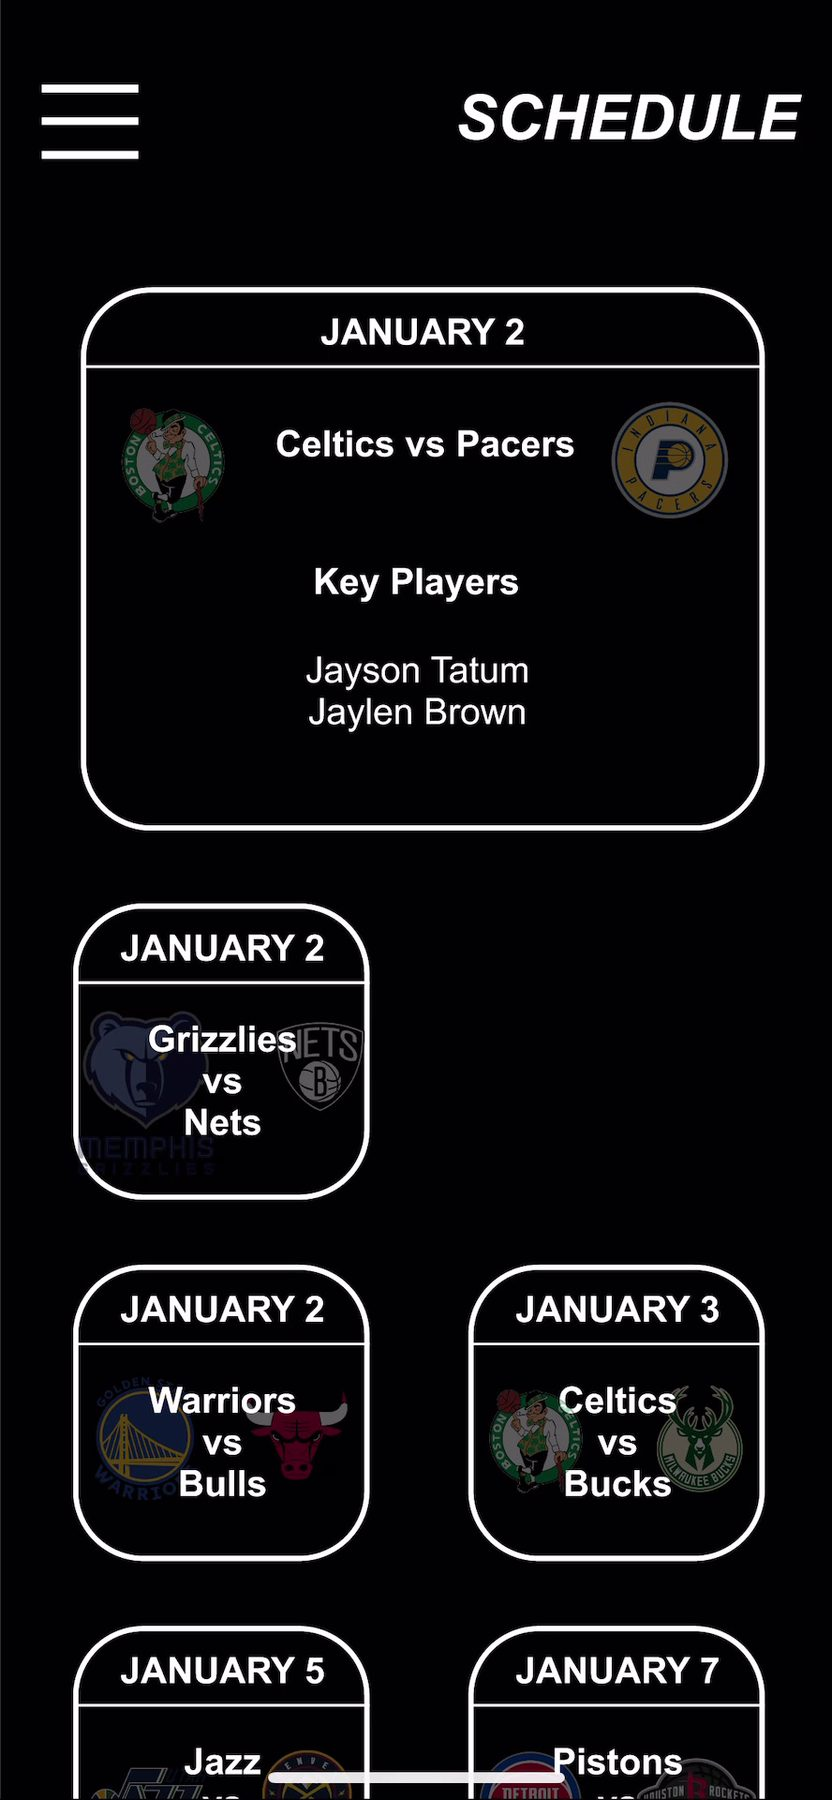
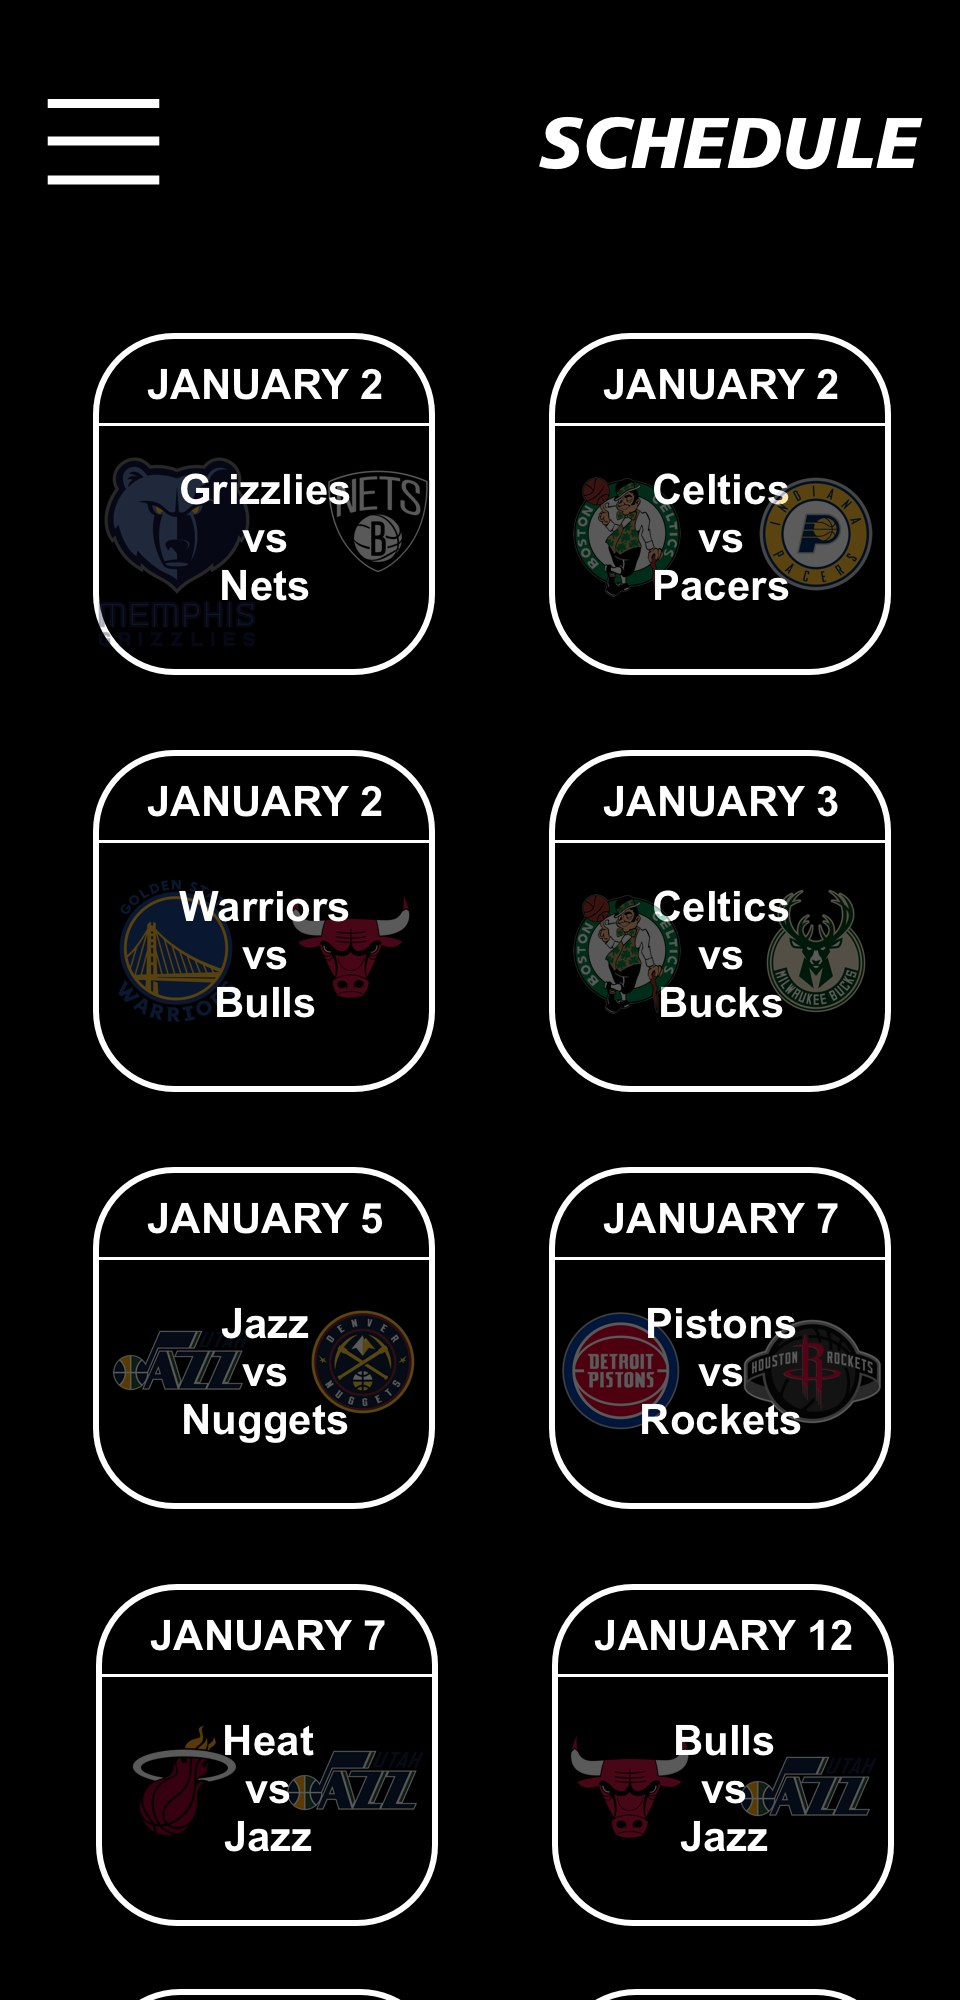
Re-export Impact screens from the Sketch source, one image at the top
The Impact screens were crops taken from the Medium article, whose originals
cap at 1094px, so two of them were only 340 and 249 pixels wide and could not
be shown any larger without blurring.

The Sketch file was on disk. Exported the artboards at 3x through sketchtool,
which gives 960px per screen against a 320pt design, and recut schedule,
players and the splash from those. Nothing on the page renders above 0.65 of
its source now, where the logo was previously being asked for 2.3x.

Layout per the brief: one full-width image at the top, the rest below the prose.
Added the Your Team roster screen, which puts Sue Bird and Diana Taurasi in the
same table as Tatum and Brown. It is the clearest evidence of the project's
premise and it squares the bottom into two even rows.

Changed region(s): [[0.0625, 0.1556, 0.9375, 1.0], [0.5625, 0.0311, 0.9688, 0.0933], [0.0312, 0.0311, 0.1875, 0.0933]]

diff --git a/work/impact.html b/work/impact.html
@@ -64,18 +64,11 @@
   <section style="padding-block:clamp(0.6rem,1.6vh,1.1rem)">
     <div class="shell">
       <div class="cs-grid">
-        <figure class="cs-cell cs-cell--half reveal" style="--ar:1800/1684;--iw:1800px">
+        <figure class="cs-cell cs-cell--wide reveal" style="--ar:1800/1684;--iw:1800px">
           <div class="media">
             <div class="media__slot"><span class="mark">IMPACT</span></div>
-            <img src="../assets/work/impact-team.jpg" alt="The Impact app showing a fantasy roster with total points" loading="eager">
+            <img src="../assets/work/impact-team.jpg" alt="The Impact app showing a fantasy roster with total points" loading="lazy" decoding="async">
           </div>
-        </figure>
-        <figure class="cs-cell cs-cell--half reveal" style="--ar:832/1800;--iw:832px">
-          <div class="media">
-            <div class="media__slot"><span class="mark">IMPACT</span></div>
-            <img src="../assets/work/impact-schedule.jpg" alt="The Impact schedule screen listing upcoming games and the key players in each" loading="lazy">
-          </div>
-          <figcaption class="cs-caption">The schedule surfaces only the players who are on your roster.</figcaption>
         </figure>
       </div>
     </div>
@@ -158,19 +151,40 @@
   <section style="padding-block:clamp(0.6rem,1.6vh,1.1rem)">
     <div class="shell">
       <div class="cs-grid">
-        <figure class="cs-cell cs-cell--half reveal" style="--ar:340/1011;--iw:340px">
+        <figure class="cs-cell cs-cell--half reveal" style="--ar:960/2000;--iw:960px">
           <div class="media">
             <div class="media__slot"><span class="mark">IMPACT</span></div>
-            <img src="../assets/work/impact-players.jpg" alt="The Impact Players page showing Diana Taurasi of the Phoenix Mercury alongside NBA players" loading="lazy">
+            <img src="../assets/work/impact-schedule.jpg" alt="The Impact schedule screen listing upcoming games" loading="lazy" decoding="async">
+          </div>
+          <figcaption class="cs-caption">The schedule surfaces only the players who are on your roster.</figcaption>
+        </figure>
+        <figure class="cs-cell cs-cell--half reveal" style="--ar:960/2000;--iw:960px">
+          <div class="media">
+            <div class="media__slot"><span class="mark">IMPACT</span></div>
+            <img src="../assets/work/impact-players.jpg" alt="The Impact Players page showing Diana Taurasi of the Phoenix Mercury" loading="lazy" decoding="async">
           </div>
           <figcaption class="cs-caption">The Players page. WNBA and NBA in one list, ranked by the same points.</figcaption>
         </figure>
-        <figure class="cs-cell cs-cell--half reveal" style="--ar:249/308;--iw:249px">
+      </div>
+    </div>
+  </section>
+
+  <section style="padding-block:clamp(0.6rem,1.6vh,1.1rem)">
+    <div class="shell">
+      <div class="cs-grid">
+        <figure class="cs-cell cs-cell--half reveal" style="--ar:960/2000;--iw:960px">
           <div class="media">
             <div class="media__slot"><span class="mark">IMPACT</span></div>
-            <img src="../assets/work/impact-logo.jpg" alt="The Impact logo, setting the NBA and WNBA marks above the word Impact" loading="lazy">
+            <img src="../assets/work/impact-roster.jpg" alt="A roster mixing Sue Bird and Diana Taurasi with Jayson Tatum and Jaylen Brown" loading="lazy" decoding="async">
           </div>
-          <figcaption class="cs-caption">The mark keeps both league logos so the premise is legible before you open anything.</figcaption>
+          <figcaption class="cs-caption">One roster. Sue Bird and Diana Taurasi sit in the same table as Tatum and Brown.</figcaption>
+        </figure>
+        <figure class="cs-cell cs-cell--half reveal" style="--ar:960/1320;--iw:960px">
+          <div class="media">
+            <div class="media__slot"><span class="mark">IMPACT</span></div>
+            <img src="../assets/work/impact-logo.jpg" alt="The Impact splash screen, setting the NBA and WNBA marks above the word Impact" loading="lazy" decoding="async">
+          </div>
+          <figcaption class="cs-caption">The mark keeps both league logos, so the premise is legible before you open anything.</figcaption>
         </figure>
       </div>
     </div>
